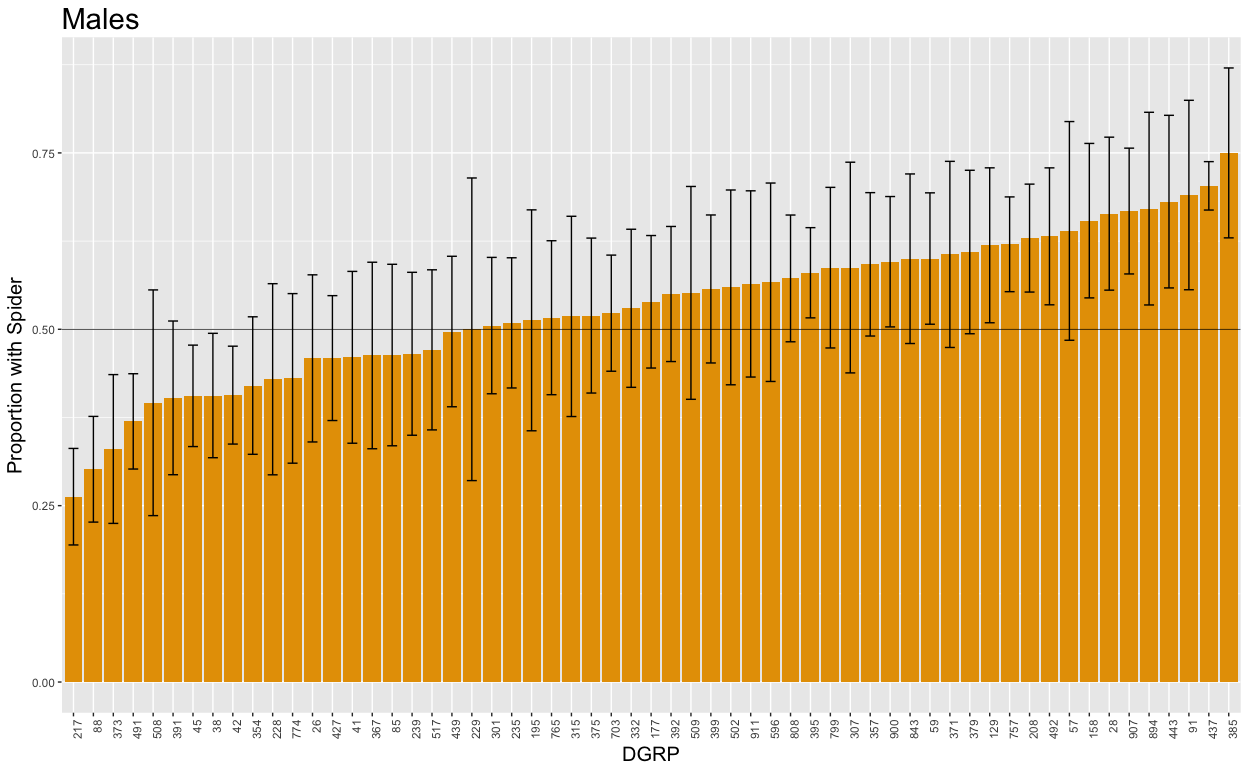
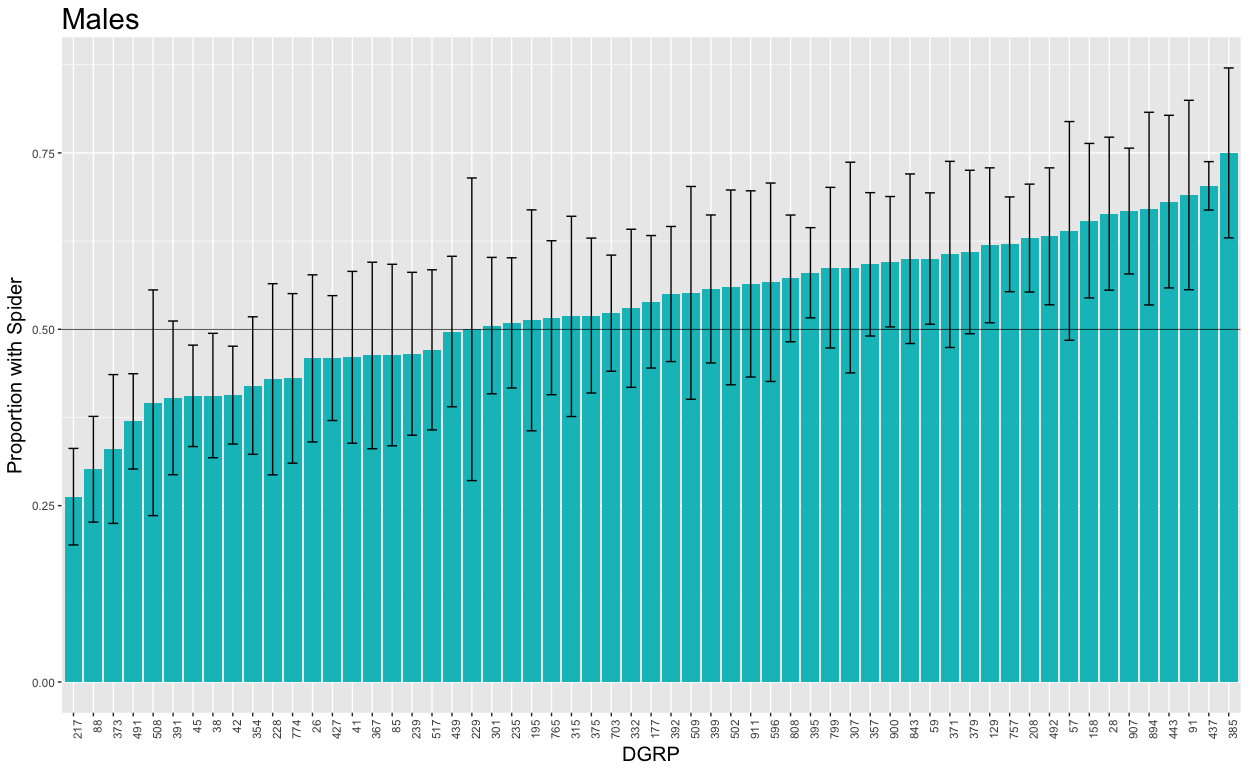
New colours for plots and changes males from gold to matching blue

diff --git a/r_script_Jan_18.md b/r_script_Jan_18.md
@@ -1,8 +1,8 @@
 Perception R Code
 ================
 
-How do different DGRP di-hybrid lines vary in their ability to perceive and avoid predator cues?
-------------------------------------------------------------------------------------------------
+How do different DGRP dihybrid lines vary in their ability to perceive and avoid predator cues?
+-----------------------------------------------------------------------------------------------
 
 ### Hypothesis:
 
@@ -14,22 +14,22 @@ Each DGRP dihybrid lines will show within line consistancy, but display between 
 
 ### What I still want done:
 
-1.  More precise statistics/ models
+1.  More precise statistics (Bio 708)
 2.  Correlation to aggression, activity and sociability
 3.  Increase sample size for some (or all) lines
 4.  Reanalyze some very high and low lines or with evolved populations
 
 ### Notes on protocol and results
 
--   10 sets of data collection, 7 of which have all lines at once, 3 days with random selection of lines (both sexes done on same day)
+-   10 sets of data collection, 7 of which have all lines completed at once, first 3 days with random subset of lines (both sexes done on same day)
 
--   Flies aged 4-5 days old, with opportunities to mate before experiment start
+-   Flies aged 4-5 days, with opportunities to mate before experiment start
 
 -   10 flies of same sex into bin with two vials, one with spider, one without spider
 
--   count number of flies in each vial after 24 hours and 48 hours
+-   count number of flies in each vial after 24 and 48 hours
 
--   removed all those with &lt; 6 flies in both vials together
+-   removed all those with &lt; 6 flies in both vials (spider vial + not spider vial &gt;= 6)
 
 -   all results below for 48 hour counts
 
